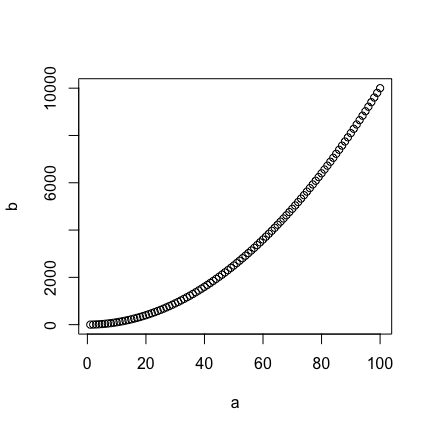
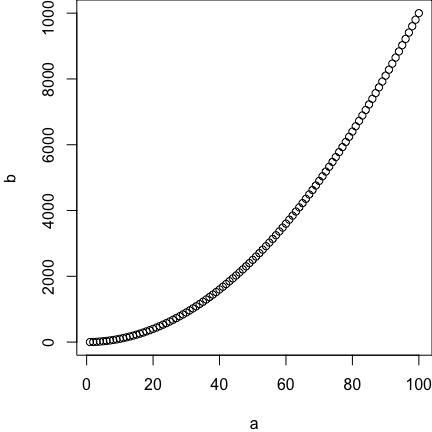
new htlm

diff --git a/QCBS R Workshops/Workshop 1/QCBS-R-Revamping-Slides.html b/QCBS R Workshops/Workshop 1/QCBS-R-Revamping-Slides.html
@@ -521,12 +521,12 @@ Website: <a href="http://qcbs.ca/wiki/r/workshop1" class="uri">http://qcbs.ca/wi
 </section><section id="why-use-r-2" class="slide level2">
 <h2>Why use R?</h2>
 <p>What people have traditionally done to analyze their data:</p>
-<div id="htmlwidget-108fef5314eae610e4bc" style="width:768px;height:576px;" class="grViz html-widget"></div>
-<script type="application/json" data-for="htmlwidget-108fef5314eae610e4bc">{"x":{"diagram":"\n      digraph {\n\n      node [shape = oval, fillcolor = PaleTuruoise]\n      Data; Graphs; Tables; Statistics\n\n      node [shape = box]\n      Sigmaplot; Excel; SAS\n\n      ##add arrows\n      edge [arrowhead = none]\n      Data -> Sigmaplot; Data -> Excel; Data -> SAS;\n\n      edge [arrowhead = normal]\n      Sigmaplot -> Graphs; Excel -> Tables; SAS -> Statistics;\n\n      }","config":{"engine":"dot","options":null}},"evals":[],"jsHooks":[]}</script>
+<div id="htmlwidget-84cab9a3be910256ff01" style="width:768px;height:576px;" class="grViz html-widget"></div>
+<script type="application/json" data-for="htmlwidget-84cab9a3be910256ff01">{"x":{"diagram":"\n      digraph {\n\n      node [shape = oval, fillcolor = PaleTuruoise]\n      Data; Graphs; Tables; Statistics\n\n      node [shape = box]\n      Sigmaplot; Excel; SAS\n\n      ##add arrows\n      edge [arrowhead = none]\n      Data -> Sigmaplot; Data -> Excel; Data -> SAS;\n\n      edge [arrowhead = normal]\n      Sigmaplot -> Graphs; Excel -> Tables; SAS -> Statistics;\n\n      }","config":{"engine":"dot","options":null}},"evals":[],"jsHooks":[]}</script>
 </section><section id="why-use-r-3" class="slide level2">
 <h2>Why use R?</h2>
-<div id="htmlwidget-29b1b1f11740e98a0c63" style="width:768px;height:576px;" class="grViz html-widget"></div>
-<script type="application/json" data-for="htmlwidget-29b1b1f11740e98a0c63">{"x":{"diagram":"\n      digraph {\n\n      node [shape = oval, fillcolor = PaleTuruoise]\n      Data; Graphs; Tables; Statistics\n\n      node [shape = box]\n      R\n\n      ##add arrows\n      edge [arrowhead = none]\n      Data -> R;\n\n      edge [arrowhead = normal]\n      R -> Graphs; R -> Tables; R -> Statistics;\n\n      }","config":{"engine":"dot","options":null}},"evals":[],"jsHooks":[]}</script>
+<div id="htmlwidget-df29fe075522a92f5ff8" style="width:768px;height:576px;" class="grViz html-widget"></div>
+<script type="application/json" data-for="htmlwidget-df29fe075522a92f5ff8">{"x":{"diagram":"\n      digraph {\n\n      node [shape = oval, fillcolor = PaleTuruoise]\n      Data; Graphs; Tables; Statistics\n\n      node [shape = box]\n      R\n\n      ##add arrows\n      edge [arrowhead = none]\n      Data -> R;\n\n      edge [arrowhead = normal]\n      R -> Graphs; R -> Tables; R -> Statistics;\n\n      }","config":{"engine":"dot","options":null}},"evals":[],"jsHooks":[]}</script>
 <p>R allows you to do everything with one program, which is nice!</p>
 </section><section id="why-use-r-4" class="slide level2">
 <h2>Why use R?</h2>
@@ -731,6 +731,7 @@ Open Rstudio
 <ul>
 <li>Objects names should <strong>always</strong> begin with a letter.</li>
 <li><code>R</code> is <strong>case sensitive</strong>, the names <code>Data1</code> and <code>data1</code> are not the same.</li>
+<li>You can <strong>not</strong> use special characters! (@, /, etc.)</li>
 </ul>
 </section><section id="object-names-good-practices" class="slide level2">
 <h2>Object names: good practices</h2>
@@ -1221,21 +1222,25 @@ Open Rstudio
 <p><img src="QCBS-R-Revamping-Slides_files/figure-revealjs/unnamed-chunk-58-1.png" /><!-- --></p>
 </section><section id="challenge-12-solution" class="slide level2">
 <h2>Challenge 12: Solution <img style="float: right; margin: 0px 0px 5px 55px;" src="images/rubicub.png"  width="150" /></h2>
-<div class="sourceCode"><pre class="sourceCode r"><code class="sourceCode r">  <span class="kw">plot</span>(a,b)</code></pre></div>
+<div class="sourceCode"><pre class="sourceCode r"><code class="sourceCode r">  <span class="kw">par</span>(<span class="dt">mar =</span> <span class="kw">c</span>(<span class="dv">4</span>,<span class="dv">4</span>,<span class="dv">0</span>,<span class="dv">0</span>))
+  <span class="kw">plot</span>(a,b)</code></pre></div>
 <p><img src="QCBS-R-Revamping-Slides_files/figure-revealjs/unnamed-chunk-59-1.png" /><!-- --></p>
 </section><section id="challenge-12-solution-1" class="slide level2">
 <h2>Challenge 12: Solution <img style="float: right; margin: 0px 0px 5px 55px;" src="images/rubicub.png"  width="150" /></h2>
-<div class="sourceCode"><pre class="sourceCode r"><code class="sourceCode r">  <span class="kw">plot</span>(b,a)</code></pre></div>
+<div class="sourceCode"><pre class="sourceCode r"><code class="sourceCode r">  <span class="kw">par</span>(<span class="dt">mar =</span> <span class="kw">c</span>(<span class="dv">4</span>,<span class="dv">4</span>,<span class="dv">0</span>,<span class="dv">0</span>))
+  <span class="kw">plot</span>(b,a)</code></pre></div>
 <p><img src="QCBS-R-Revamping-Slides_files/figure-revealjs/unnamed-chunk-60-1.png" /><!-- --></p>
 <p>The shape of the plot has changed, as we did not provided the arguments names, the order is important.</p>
 </section><section id="challenge-12-solution-2" class="slide level2">
 <h2>Challenge 12: Solution <img style="float: right; margin: 0px 0px 5px 55px;" src="images/rubicub.png"  width="150" /></h2>
-<div class="sourceCode"><pre class="sourceCode r"><code class="sourceCode r">  <span class="kw">plot</span>(<span class="dt">x =</span> a, <span class="dt">y =</span> b)</code></pre></div>
+<div class="sourceCode"><pre class="sourceCode r"><code class="sourceCode r">  <span class="kw">par</span>(<span class="dt">mar =</span> <span class="kw">c</span>(<span class="dv">4</span>,<span class="dv">4</span>,<span class="dv">0</span>,<span class="dv">0</span>))
+  <span class="kw">plot</span>(<span class="dt">x =</span> a, <span class="dt">y =</span> b)</code></pre></div>
 <p><img src="QCBS-R-Revamping-Slides_files/figure-revealjs/unnamed-chunk-61-1.png" /><!-- --></p>
 <p>Same as <code>plot(a,b)</code></p>
 </section><section id="challenge-12-solution-3" class="slide level2">
 <h2>Challenge 12: Solution <img style="float: right; margin: 0px 0px 5px 55px;" src="images/rubicub.png"  width="150" /></h2>
-<div class="sourceCode"><pre class="sourceCode r"><code class="sourceCode r">  <span class="kw">plot</span>(<span class="dt">y =</span> b, <span class="dt">x =</span> a)</code></pre></div>
+<div class="sourceCode"><pre class="sourceCode r"><code class="sourceCode r">  <span class="kw">par</span>(<span class="dt">mar =</span> <span class="kw">c</span>(<span class="dv">4</span>,<span class="dv">4</span>,<span class="dv">0</span>,<span class="dv">0</span>))
+  <span class="kw">plot</span>(<span class="dt">y =</span> b, <span class="dt">x =</span> a)</code></pre></div>
 <p><img src="QCBS-R-Revamping-Slides_files/figure-revealjs/unnamed-chunk-62-1.png" /><!-- --></p>
 <p>Same as <code>plot(a,b)</code>. The argument names are provided, the order is not important.</p>
 </section><section id="packages" class="slide level2">
